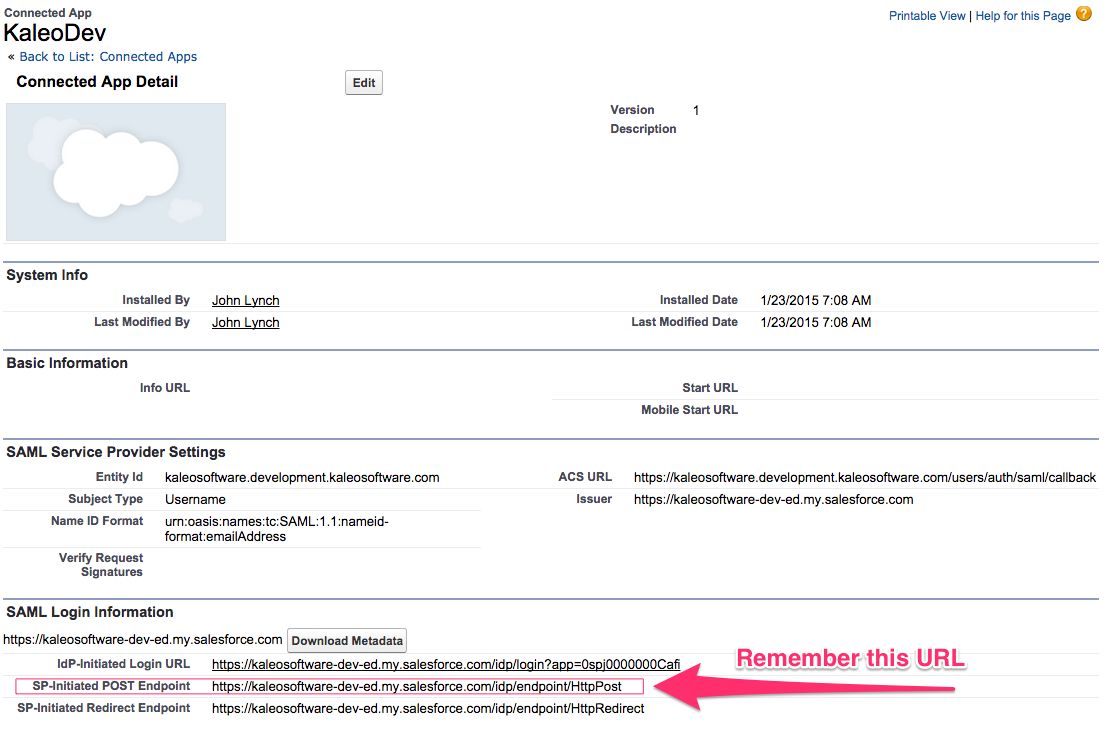
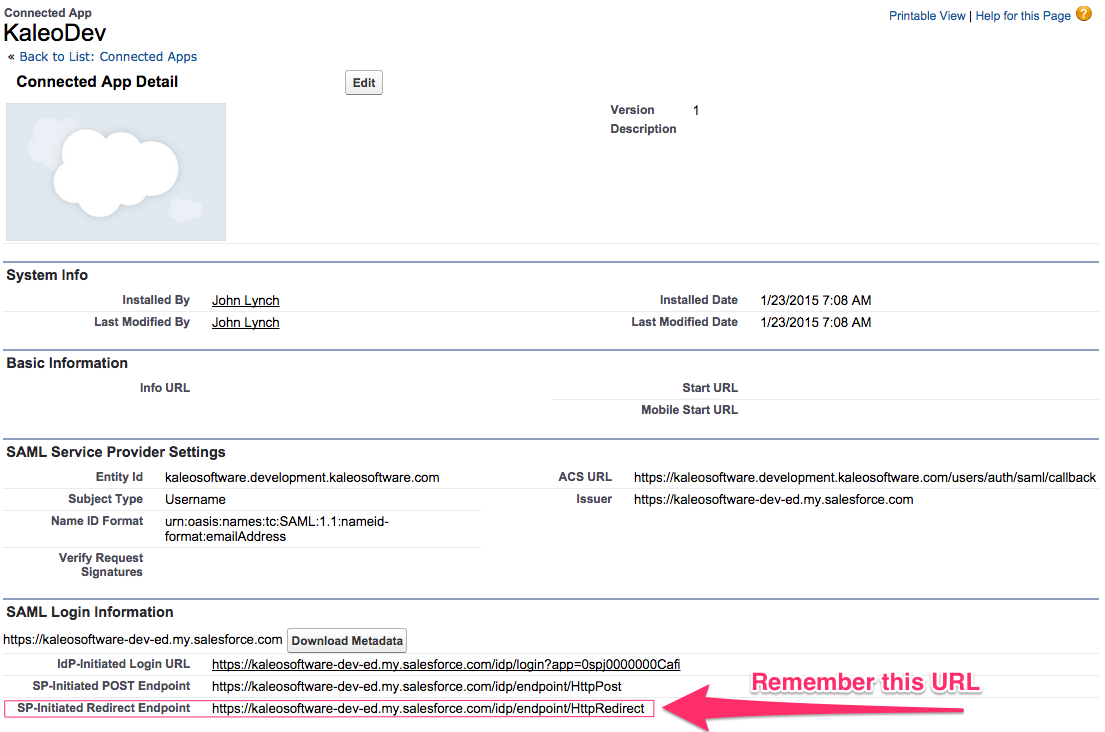
Using Redirect URL instead of POST

diff --git a/docs/SSO SAML Guide.md b/docs/SSO SAML Guide.md
@@ -66,7 +66,7 @@ The salesforce documentation for this process can be found [here](https://help.s
 
 <img src="/images/SF-CreateApp.png" width="800px" />
 
-From the Connect App page, you must remember the value of "SP-Initiated POST Endpoint".  o the /admin panel of kaleosoftware.com 
+From the Connect App page, you must remember the value of "SP-Initiated Redirect Endpoint".  o the /admin panel of kaleosoftware.com 
 
 <img src="/images/SF-AppView.png" width="800px" />
 
@@ -82,7 +82,7 @@ The following settings need to be created:
 
 ```
 authentication.saml.idp_cert_fingerprint=<fingerprint from cert>
-authentication.saml.idp_sso_target_url=<<Enter SP-Initiated POST Endpoint URL from earlier>>
+authentication.saml.idp_sso_target_url=<<Enter SP-Initiated Redirect Endpoint URL from earlier>>
 authentication.saml.enabled=true
 ```
 The final state should look something like:  
